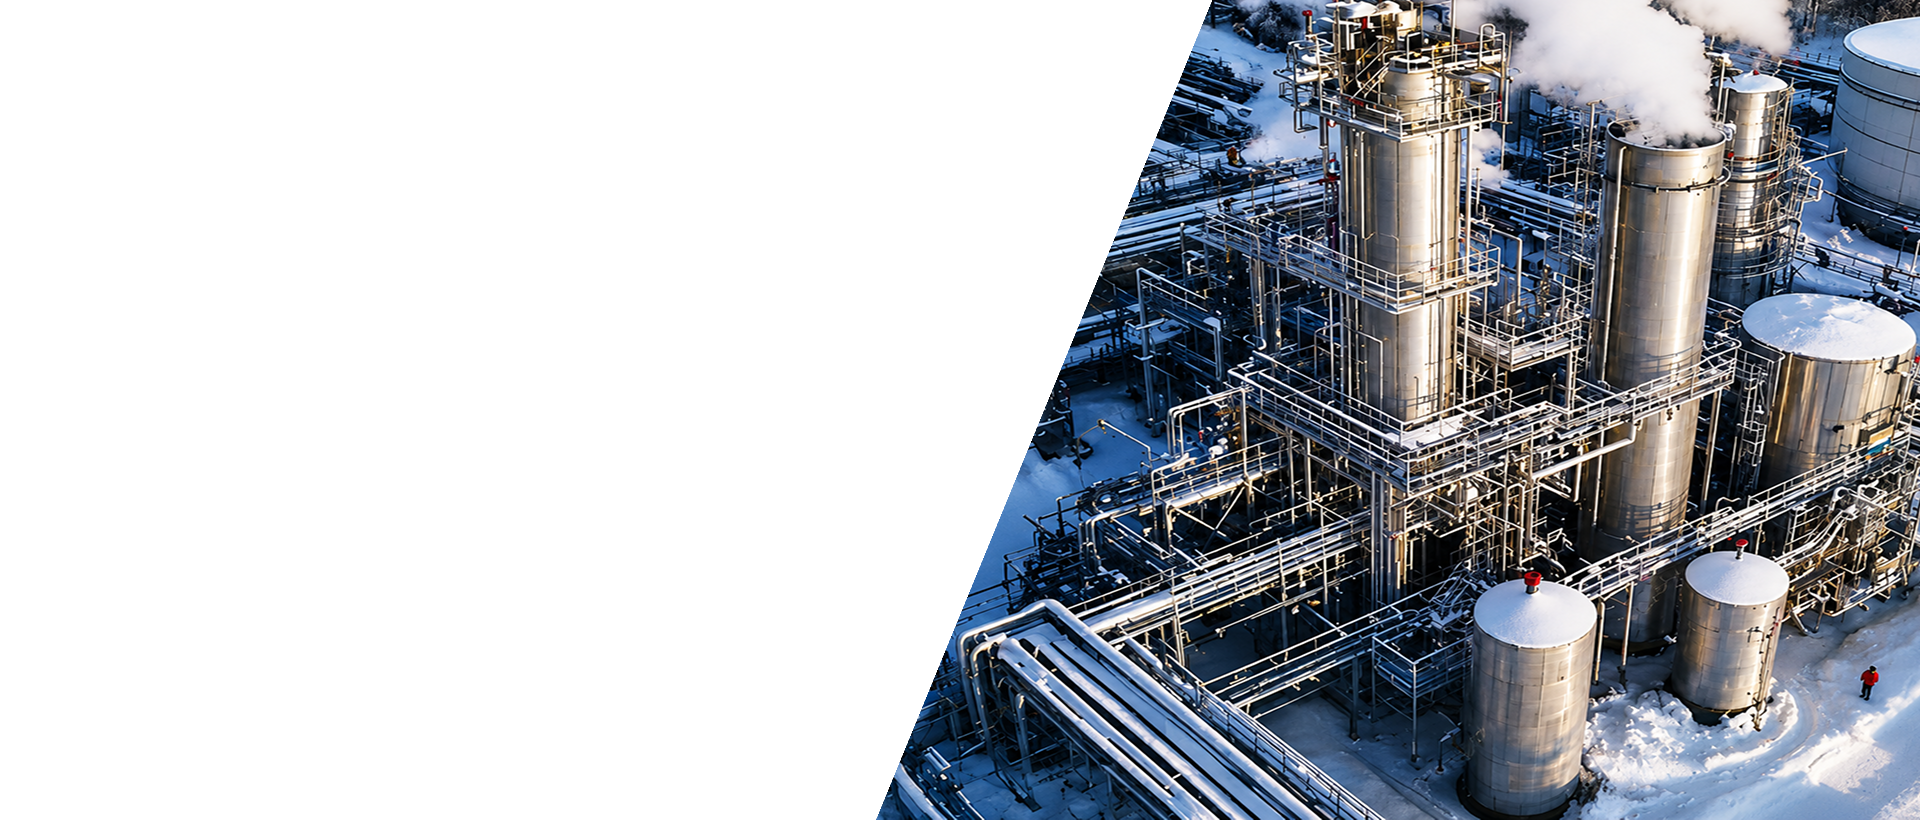
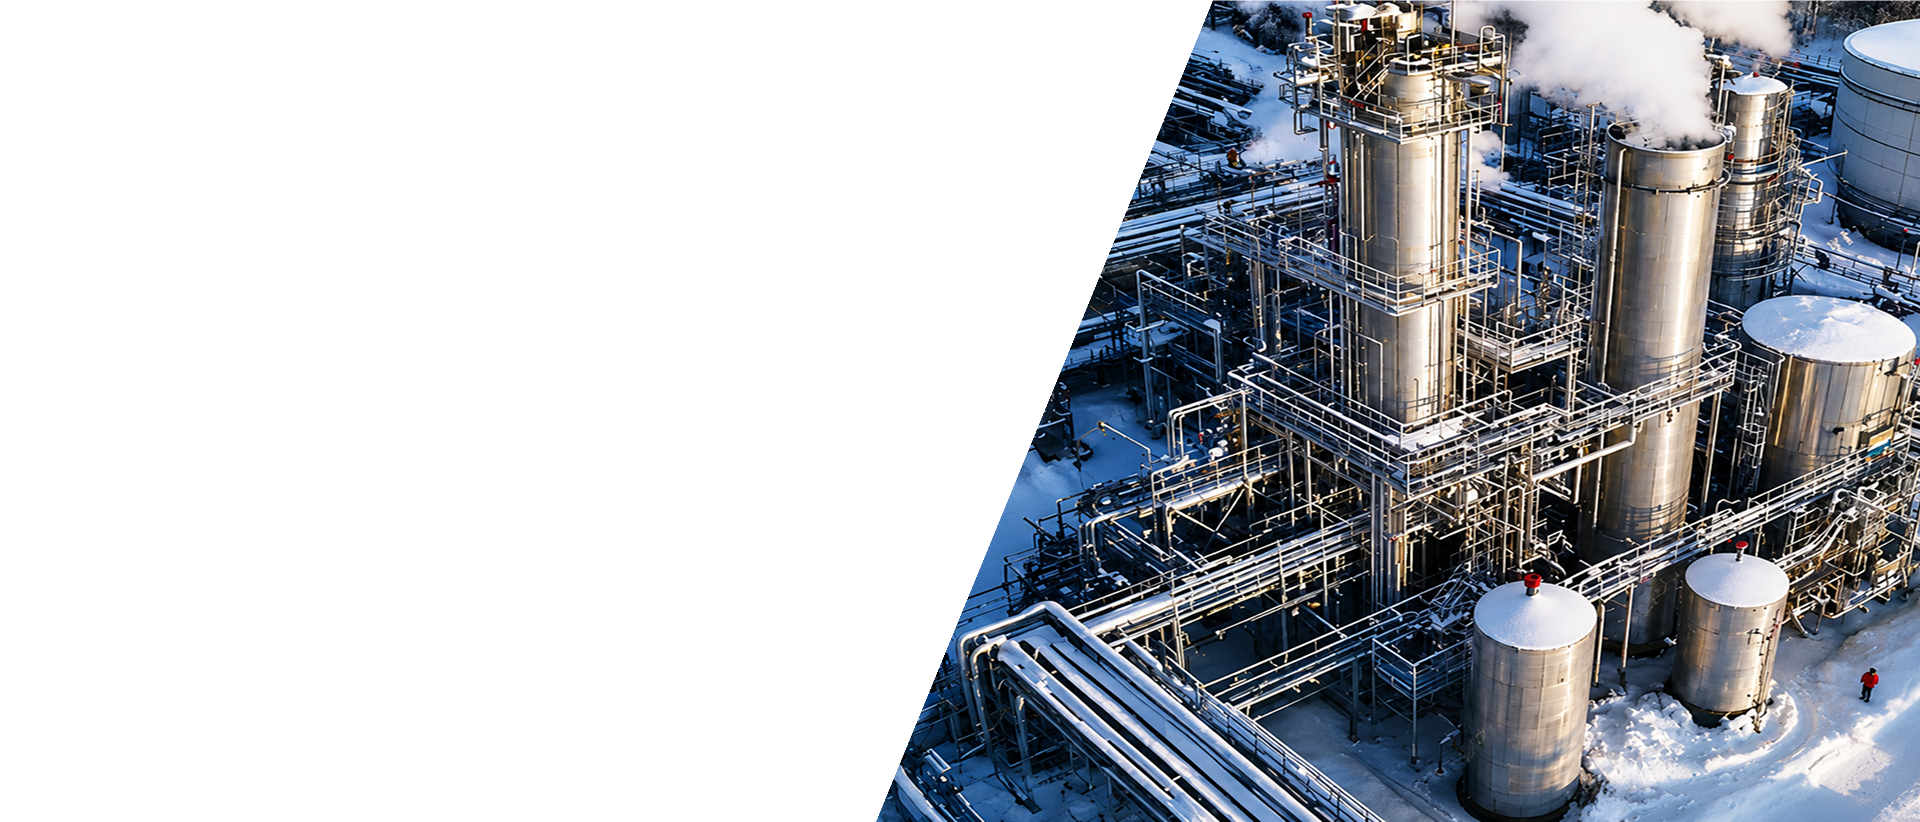
feat: add Products & Solutions page

Changed region(s): [[0.5, 0.0, 1.0, 0.8841], [0.8438, 0.0, 0.875, 0.0305]]

diff --git a/products-solutions.html b/products-solutions.html
@@ -1,0 +1,305 @@
+<!DOCTYPE html>
+<html lang="ru">
+
+<head>
+    <meta charset="UTF-8">
+    <meta name="viewport" content="width=device-width, initial-scale=1.0">
+    <title>HUB UNION</title>
+    <link rel="stylesheet" href="https://cdn.jsdelivr.net/npm/bootstrap@5.3.3/dist/css/bootstrap.min.css">
+    <link href="https://fonts.googleapis.com/css2?family=Montserrat:wght@100..900&display=swap" rel="stylesheet">
+    <link rel="stylesheet" href="https://cdn.jsdelivr.net/npm/bootstrap-icons@1.13.1/font/bootstrap-icons.min.css">
+    <link rel="stylesheet" href="https://cdn.jsdelivr.net/npm/slick-carousel@1.8.1/slick/slick.css">
+    <link rel="stylesheet" href="https://cdn.jsdelivr.net/npm/slick-carousel@1.8.1/slick/slick-theme.css">
+    <link rel="stylesheet" href="https://unpkg.com/aos@2.3.1/dist/aos.css">
+    <link rel="stylesheet" href="https://cdn.jsdelivr.net/gh/lipis/flag-icons@7.2.3/css/flag-icons.min.css">
+    <link rel="stylesheet" href="style.css">
+</head>
+
+<body>
+    <header class="border-bottom">
+        <nav class="navbar navbar-expand-lg py-4 sticky-lg-top">
+            <div class="container ">
+                <div class="w-lg-fit-content d-flex justify-content-between align-items-center">
+                    <a class="navbar-brand" href="index.html">
+                        <img src="icons/main-icons/logo-dark.svg" alt="" class="logo">
+                    </a>
+                    <div class="d-flex align-items-center d-xl-none gap-2">
+                        <button class="navbar-toggler" type="button" data-bs-toggle="collapse" data-bs-target="#navbarNav" aria-controls="navbarNav" aria-expanded="false" aria-label="Toggle navigation">
+                            <span class="navbar-toggler-icon"></span>
+                        </button>
+                    </div>
+                </div>
+
+                <div class="collapse navbar-collapse " id="navbarNav">
+                    <ul class="navbar-nav ms-auto gap-xl-5 ">
+                        <li class="nav-item active">
+                            <a class="nav-link" href="index.html">Home</a>
+                        </li>
+                        <li class="nav-item">
+                            <a class="nav-link" href="about.html">About us</a>
+                        </li>
+                        <li class="nav-item">
+                            <a class="nav-link" href="services.html">Our services</a>
+                        </li>
+                        <li class="nav-item">
+                            <div class="dropdown">
+                                <button class="nav-link dropdown-toggle" type="button" data-bs-toggle="dropdown" aria-expanded="false">
+                                    Products & Solutions
+                                </button>
+                                <ul class="dropdown-menu">
+                                    <li><a class="dropdown-item" href="products-solutions.html">Products & Solutions</a></li>
+                                    <li><a class="dropdown-item" href="process-equipment.html">Process Equipment</a></li>
+                                    <li><a class="dropdown-item" href="furnace-reformer-systems.html">Furnace & Reformer Systems</a></li>
+                                    <li><a class="dropdown-item" href="piping-structures.html">Piping & Structures</a></li>
+                                </ul>
+                            </div>
+                        </li>
+                        <li class="nav-item">
+                            <div class="dropdown">
+                                <button class="nav-link dropdown-toggle" type="button" data-bs-toggle="dropdown" aria-expanded="false">
+                                    Industries
+                                </button>
+                                <ul class="dropdown-menu">
+                                    <li><a class="dropdown-item" href="industries.html">Industrial Expertise Across Key Sectors</a></li>
+                                    <li><a class="dropdown-item" href="why.html">Why Hub Union</a></li>
+                                </ul>
+                            </div>
+                        </li>
+                        <li class="nav-item">
+                            <a class="nav-link" href="contacts.html">Contact Us</a>
+                        </li>
+                    </ul>
+                </div>
+            </div>
+        </nav>
+    </header>
+
+    <main>
+        <section class="position-relative overlay">
+            <img src="images/products-page/banner-img.png" alt="" class="img-fluid w-100 banner-img object-fit-cover d-lg-block d-none">
+            <img src="images/products-page/banner-img-mobile.png" alt="" class="img-fluid w-100 d-lg-none banner-img object-fit-cover">
+            <div class="position-absolute z-3 w-100 h-100 top-0 start-0 d-flex align-items-center">
+                <div class="container">
+                    <div class="row">
+                        <div class="col-lg-6">
+                            <div class="w-100 text-lg-start text-center">
+                                <h1 class="text-2xl mb-5 fw-semibold text-corp">Products & Solutions
+                                </h1>
+                                <p class="text-md mb-5 fw-medium text-corp">Engineered Products & Equipment Solutionss</p>
+                                <p class="text-sm">
+                                    Delivering trusted industrial solutions that combine performance, reliability, and long-term operational value for complex infrastructure projects worldwide
+                                </p>
+                            </div>
+                        </div>
+                    </div>
+                </div>
+            </div>
+        </section>
+        <section class="py-5" style="background: url('images/products-page/bg.png') no-repeat center/cover;">
+            <div class="container">
+                <div class="row justify-content-between gy-4 flex-lg-row-reverse">
+                    <div class="col-lg-5">
+                        <div class="w-100 h-100 d-flex align-items-center">
+                            <p class="mb-0 text-lg-start text-center text-sm">
+                                We supply high-spec industrial equipment and critical components tailored for the demanding environments of the energy, petrochemical, and power sectors
+                                <br><br> Every product is sourced from qualified global manufacturers and engineered to comply with strict international standards (ASME, API, ASTM) and precise project specifications
+                            </p>
+                        </div>
+                    </div>
+                    <div class="col-xxl-4 col-lg-5">
+                        <div class="w-100">
+                            <div class="d-flex mb-4 align-items-center gap-3 text-sm text-corp">
+                                <span class="bg-corp p-3 rounded-circle">
+                                    <img src="icons/products-page/1.svg" alt="" class="icon-size-xs">
+                                </span>
+                                <p class="mb-0">
+                                    Engineering-driven
+                                </p>
+                            </div>
+                            <div class="d-flex mb-4 align-items-center gap-3 text-sm text-corp">
+                                <span class="bg-corp p-3 rounded-circle">
+                                    <img src="icons/products-page/2.svg" alt="" class="icon-size-xs">
+                                </span>
+                                <p class="mb-0">
+                                    Qualified Manufacturers
+                                </p>
+                            </div>
+                            <div class="d-flex mb-4 align-items-center gap-3 text-sm text-corp">
+                                <span class="bg-corp p-3 rounded-circle">
+                                    <img src="icons/products-page/3.svg" alt="" class="icon-size-xs">
+                                </span>
+                                <p class="mb-0">
+                                    International Standards
+                                </p>
+                            </div>
+                            <div class="d-flex mb-4 align-items-center gap-3 text-sm text-corp">
+                                <span class="bg-corp p-3 rounded-circle">
+                                    <img src="icons/products-page/4.svg" alt="" class="icon-size-xs">
+                                </span>
+                                <p class="mb-0">
+                                    Global Supply Chain
+                                </p>
+                            </div>
+                            <div class="d-flex  align-items-center gap-3 text-sm text-corp">
+                                <span class="bg-corp p-3 rounded-circle">
+                                    <img src="icons/products-page/5.svg" alt="" class="icon-size-xs">
+                                </span>
+                                <p class="mb-0">
+                                    Project Management
+                                </p>
+                            </div>
+                        </div>
+                    </div>
+
+                </div>
+            </div>
+        </section>
+        <section class="bg-corp-2 text-white py-5">
+            <div class="container">
+                <h3 class="text-lg text-center fw-semibold mb-3">
+                    Our Product Portfolio
+                </h3>
+                <div class="row justify-content-center">
+                    <div class="col-lg-8">
+                        <p class="text-sm text-center">
+                            Our portfolio covers the complete lifecycle of industrial process equipment – from engineered components to fully integrated equipment packages for EPC, EPCM and end-user projects
+                        </p>
+                    </div>
+                </div>
+                <div class="row  mt-1 gy-5 pt-lg-5">
+                    <div class="col-lg-4">
+                        <div class="w-100 h-100">
+                            <img src="images/home-page/production/1.png" alt="" class="img-fluid w-100">
+                            <p class="fw-semibold text-sm mt-3">
+                                Process Equipment
+                            </p>
+                            <a href="process-equipment.html" class="d-flex align-items-center gap-2 fw-light icon-hover">
+                                <span>Learn more</span><i class="bi bi-arrow-up-right "></i>
+                            </a>
+                        </div>
+                    </div>
+                    <div class="col-lg-4">
+                        <div class="w-100 h-100">
+                            <img src="images/home-page/production/2.png" alt="" class="img-fluid w-100">
+                            <p class="fw-semibold text-sm mt-3">
+                                Furnace & Reformer Systems
+                            </p>
+                            <a href="furnace-reformer-systems.html" class="d-flex align-items-center gap-2 fw-light icon-hover">
+                                <span>Learn more</span><i class="bi bi-arrow-up-right "></i>
+                            </a>
+                        </div>
+                    </div>
+                    <div class="col-lg-4">
+                        <div class="w-100 h-100">
+                            <img src="images/home-page/production/3.png" alt="" class="img-fluid w-100">
+                            <p class="fw-semibold text-sm mt-3">
+                                Piping & Structures
+                            </p>
+                            <a href="piping-structures.html" class="d-flex align-items-center gap-2 fw-light icon-hover">
+                                <span>Learn more</span><i class="bi bi-arrow-up-right "></i>
+                            </a>
+                        </div>
+                    </div>
+                </div>
+            </div>
+        </section>
+    </main>
+
+    <footer class="py-5  bg-corp text-white position-relative">
+        <div class="container">
+            <div class="row gy-4 ">
+                <div class="col-lg-2 col-6">
+                    <div class="w-100 h-100">
+                        <img src="icons/main-icons/footer-logo.svg" alt="" class="img-fluid footer-logo">
+                    </div>
+                </div>
+                <div class="col-lg-1"></div>
+                <div class="col-lg-3">
+                    <div class="w-100">
+                        <p class="text-dirt fw-semibold text-sm">
+                            Navigation
+                        </p>
+                        <ul class="list-unstyled text-xs fw-light mb-0 ">
+                            <li class="mb-3">
+                                <a href="index.html">
+                                    Home
+                                </a>
+                            </li>
+                            <li class="mb-3">
+                                <a href="about.html">
+                                    About us
+                                </a>
+                            </li>
+                            <li class="mb-3">
+                                <a href="services.html">
+                                    Our services
+                                </a>
+                            </li>
+                            <li class="mb-3">
+                                <a href="products-solutions.html">
+                                    Products & Solutions
+                                </a>
+                            </li>
+                            <li class="mb-3">
+                                <a href="products-solutions.html">
+                                    Industries
+                                </a>
+                            </li>
+                            <li class="mb-3">
+                                <a href="contacts.html">
+                                    Contacts
+                                </a>
+                            </li>
+                        </ul>
+                    </div>
+                </div>
+                <div class="col-xxl-3 col-lg-6">
+                    <div class="w-100">
+                        <p class="text-dirt fw-semibold text-sm">
+                            Contact Us
+                        </p>
+                        <ul class="list-unstyled text-xs  fw-medium mb-0">
+                            <li class="mb-3 d-flex align-items-center gap-2">
+                                <i class="bi bi-telephone fs-5"></i>
+                                <div class="d-flex gap-2">
+                                    <a href="tel:[phone redacted]" class="">
+                                        <span>[phone redacted]</span>
+                                    </a>
+                                    <a href="tel:[phone redacted]" class="">
+                                        <span>[phone redacted]</span>
+                                    </a>
+                                </div>
+                            </li>
+                            <li class="mb-3">
+                                <a href="mailto:[email redacted]" class="d-flex gap-2 align-items-center ">
+                                    <i class="bi bi-envelope fs-5"></i>
+                                    <span>E-mail: [email redacted]</span>
+                                </a>
+                            </li>
+                            <li class="mb-3">
+                                <address class="d-flex gap-2 align-items-center ">
+                                    <i class="bi bi-geo-alt fs-5"></i>
+                                    <span>Abu Dhabi, Al Dana Zone, Plot C210, Sector E4_02, Office 1001</span>
+                                </address>
+                            </li>
+                        </ul>
+                    </div>
+                </div>
+            </div>
+            <p class="text-xs opacity-75 text-center mt-5 pt-lg-5">© 2009 – 2026 Hub Union LLC <br> All Rights Reserved</p>
+            <a href="#" class="d-block text-center  text-decoration-underline fw-light text-xs opacity-75">
+                Privacy policy
+            </a>
+        </div>
+    </footer>
+
+    <script src="https://code.jquery.com/jquery-3.6.0.min.js "></script>
+    <script src="https://kit.fontawesome.com/f817facf9f.js " crossorigin="anonymous "></script>
+    <script src="https://cdn.jsdelivr.net/npm/@popperjs/core@2.11.6/dist/umd/popper.min.js "></script>
+    <script src="https://cdn.jsdelivr.net/npm/bootstrap@5.3.3/dist/js/bootstrap.bundle.min.js "></script>
+    <script src="https://cdn.jsdelivr.net/npm/slick-carousel@1.8.1/slick/slick.min.js "></script>
+    <script src="https://unpkg.com/aos@2.3.1/dist/aos.js "></script>
+    <script src="main.js "></script>
+</body>
+
+</html>

diff --git a/index.html b/index.html
@@ -24,8 +24,7 @@
                         <img src="icons/main-icons/logo.svg" alt="" class="logo">
                     </a>
                     <div class="d-flex align-items-center d-xl-none gap-2">
-                        <button class="navbar-toggler" type="button" data-bs-toggle="collapse" data-bs-target="#navbarNav" aria-controls="navbarNav" aria-expanded="false"
-                            aria-label="Toggle navigation">
+                        <button class="navbar-toggler" type="button" data-bs-toggle="collapse" data-bs-target="#navbarNav" aria-controls="navbarNav" aria-expanded="false" aria-label="Toggle navigation">
                             <span class="navbar-toggler-icon"></span>
                         </button>
                     </div>
@@ -106,7 +105,7 @@
                                         — Oil Refinery
                                     </li>
                                     <li>
-                                        — Fertilizer  
+                                        — Fertilizer
                                     </li>
                                 </ul>
                                 <ul class="list-unstyled text-sm">
@@ -139,10 +138,8 @@
                                     About us
                                 </h3>
                                 <p class="text-sm my-4">
-                                    <span class="fw-semibold">Hub Union</span> is a UAE-based engineering and industrial supply company supporting oil & gas, petrochemical, fertilizer, oil refining,
-                                    gas processing and energy projects
-                                    across the Middle East, USA and
-                                    international markets.
+                                    <span class="fw-semibold">Hub Union</span> is a UAE-based engineering and industrial supply company supporting oil & gas, petrochemical, fertilizer, oil refining, gas processing and energy projects across the Middle
+                                    East, USA and international markets.
                                 </p>
                                 <a href="about.html" class="btn btn-long btn-corp w-lg-fit-content d-lg-block d-none">
                                     Learn more
@@ -161,7 +158,7 @@
                 </div>
             </div>
         </section>
-        <section class="bg-dark-2 text-white py-5">
+        <section class="bg-corp-2 text-white py-5">
             <div class="container">
                 <h3 class="text-lg fw-semibold mb-3">
                     Products & Solutions
@@ -419,8 +416,7 @@
                     </div>
                 </div>
             </div>
-            <p class="text-xs opacity-75 text-center mt-5 pt-lg-5">© 2009 – 2026 Hub Union LLC <br>
-                All Rights Reserved</p>
+            <p class="text-xs opacity-75 text-center mt-5 pt-lg-5">© 2009 – 2026 Hub Union LLC <br> All Rights Reserved</p>
             <a href="#" class="d-block text-center  text-decoration-underline fw-light text-xs opacity-75">
                 Privacy policy
             </a>

diff --git a/style.css b/style.css
@@ -1,7 +1,7 @@
 :root {
     --font-family-main: "Montserrat", sans-serif;
     --color-corp: #050D69;
-    --color-corp-2: #B80208;
+    --color-corp-2: #030947;
 }
 
 body {
@@ -66,6 +66,10 @@ a {
 
 .bg-corp {
     background: var(--color-corp);
+}
+
+.bg-corp-2 {
+    background: var(--color-corp-2);
 }
 
 .bg-corp-2 {